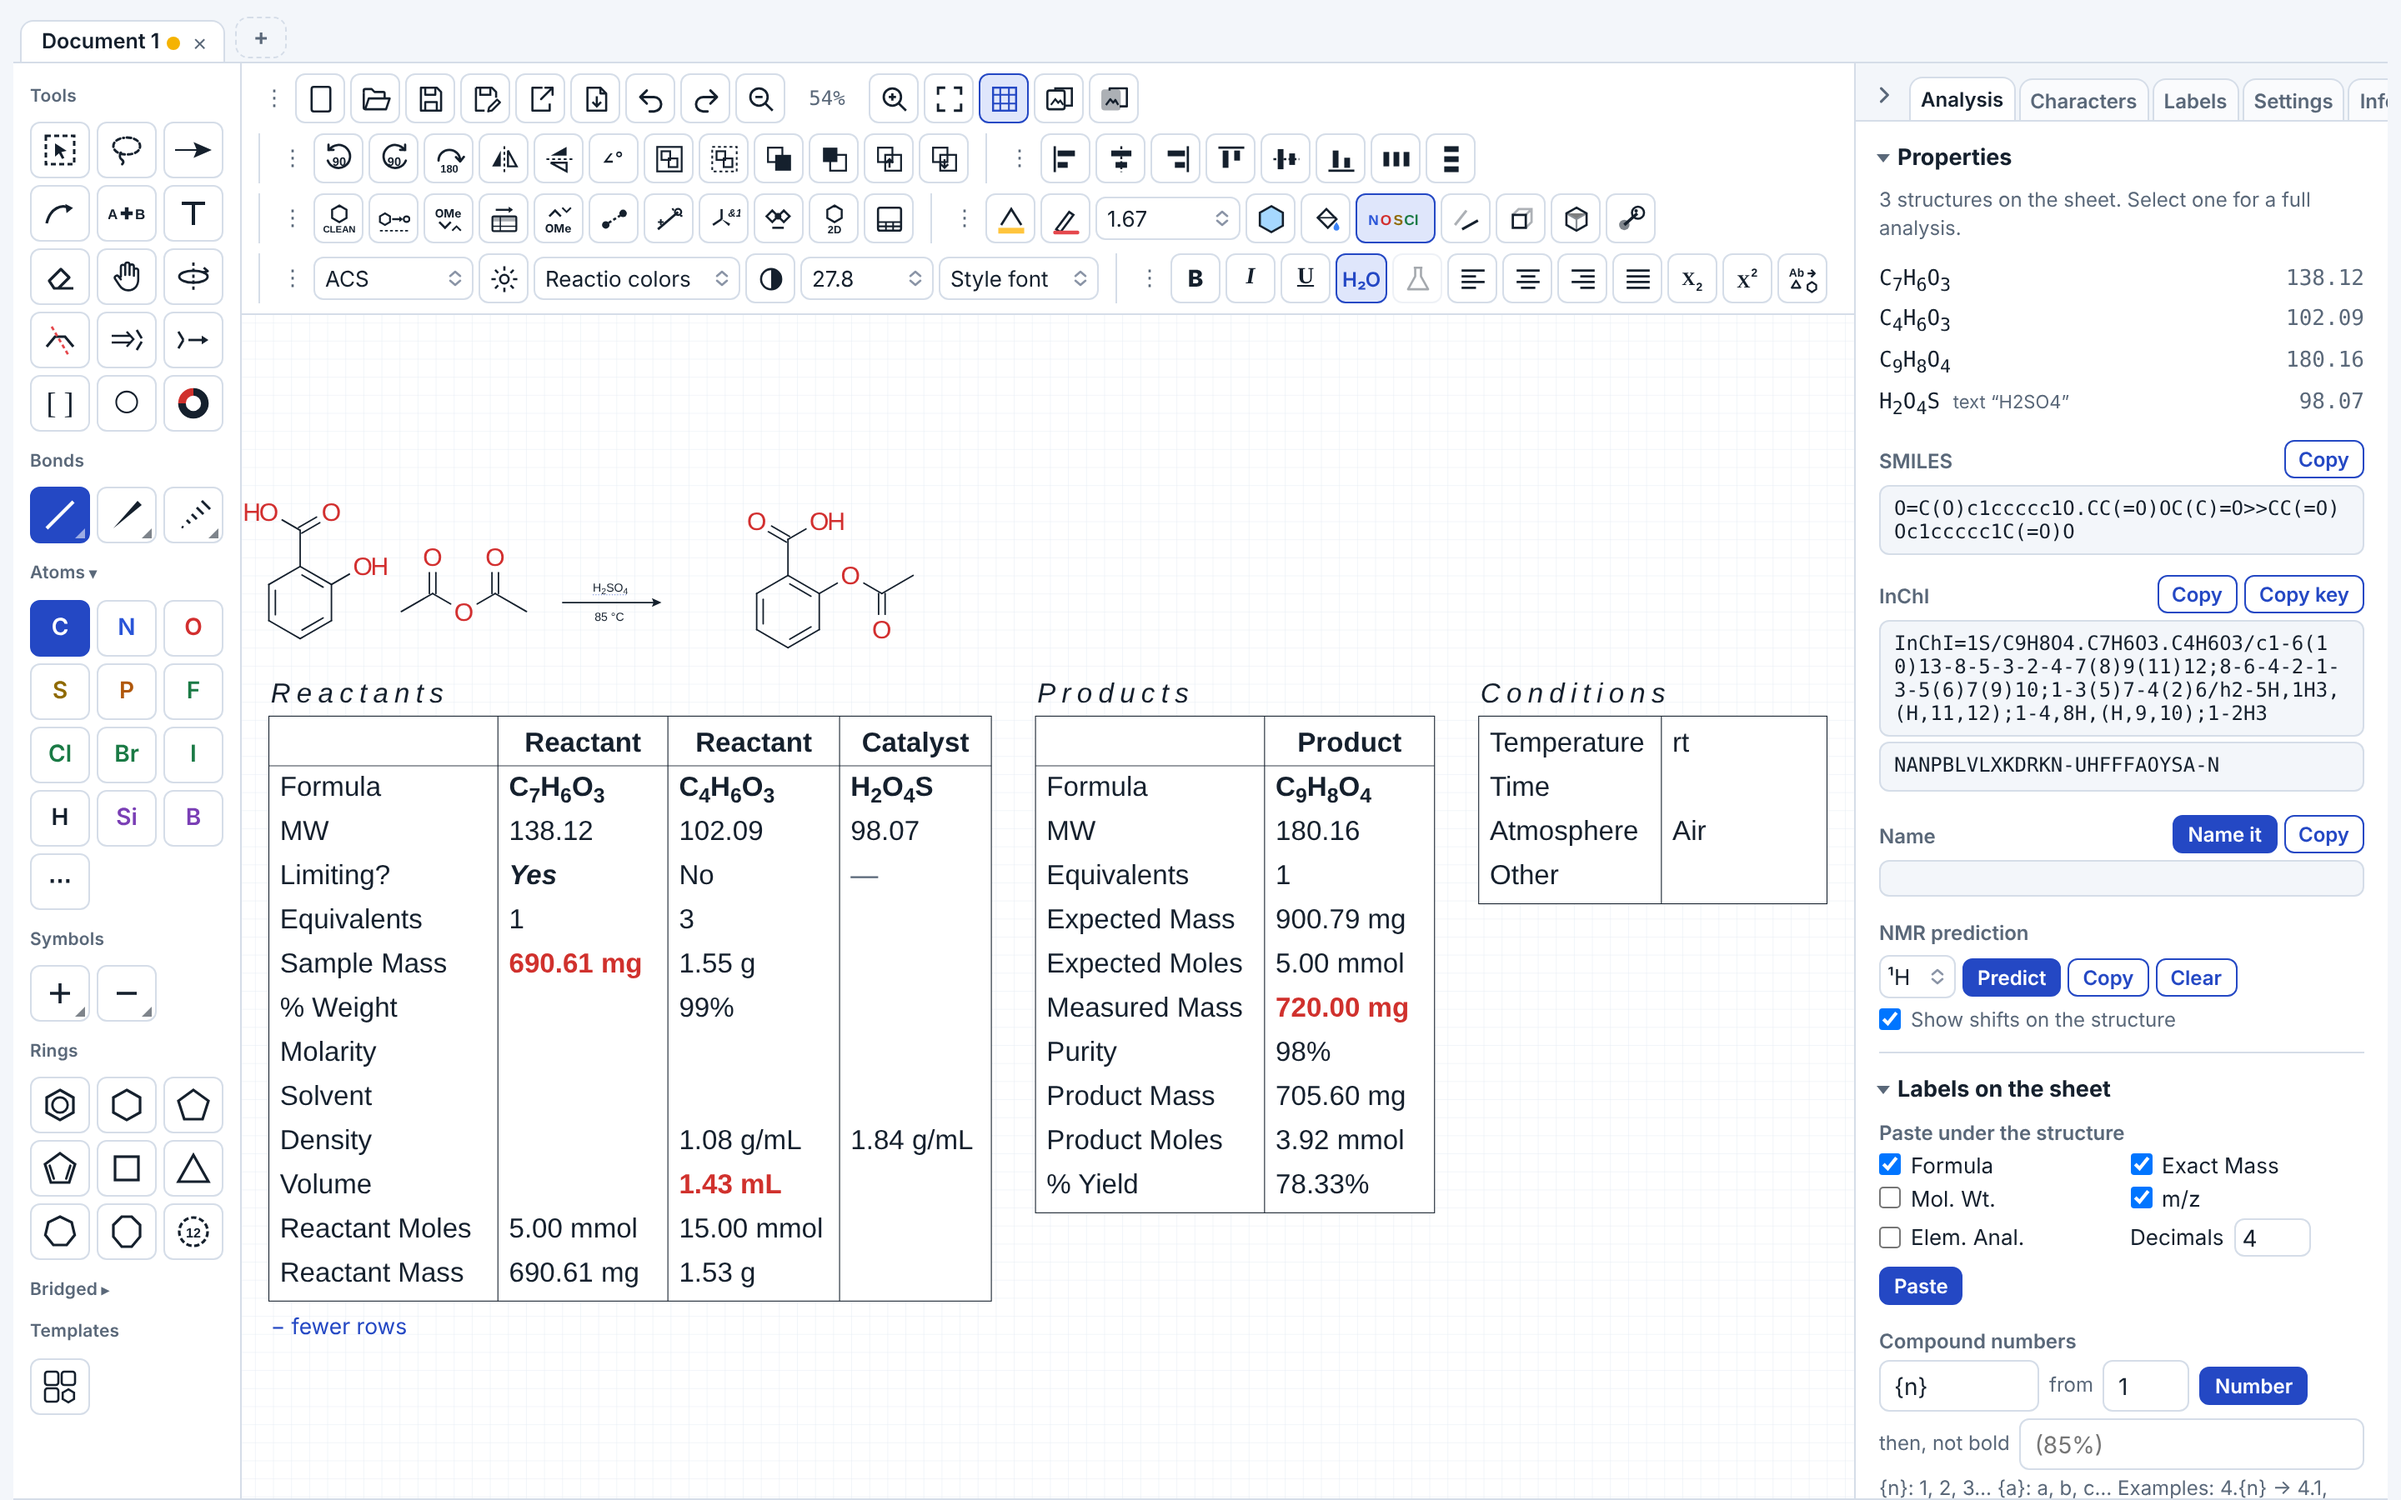
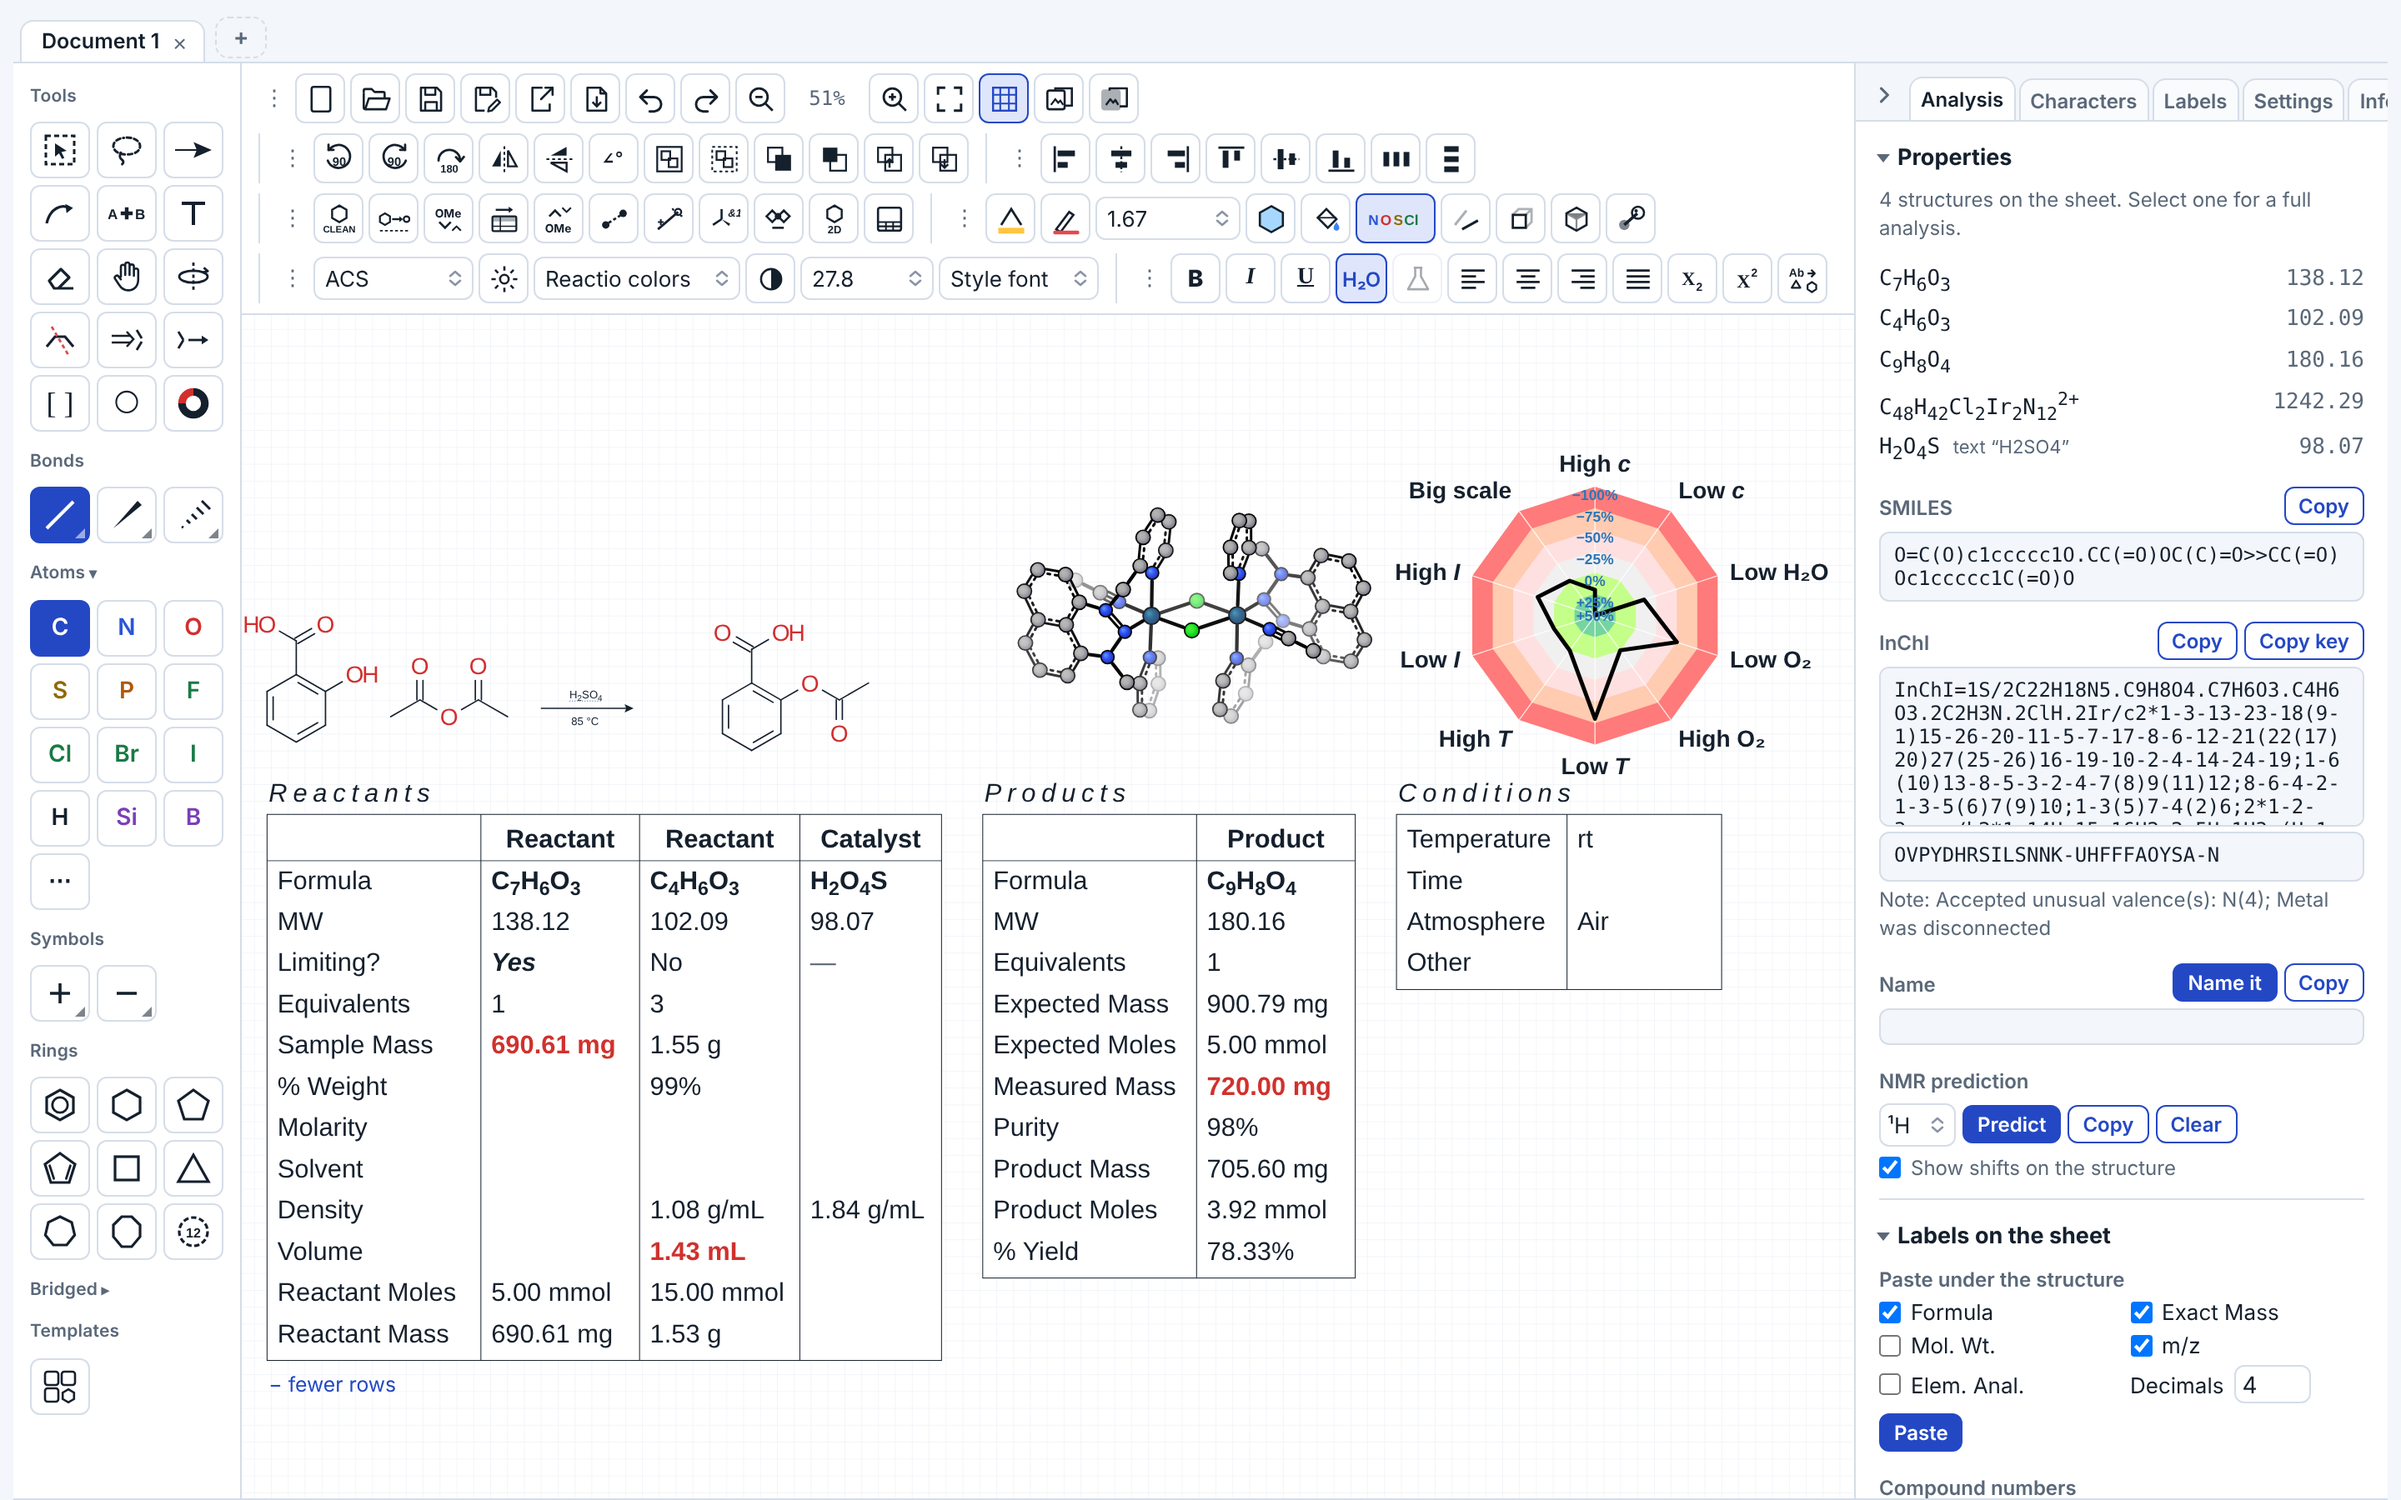
README picture: a crystal structure in 3D and a sensitivity radar chart beside the reaction

diff --git a/README.md b/README.md
@@ -8,7 +8,7 @@ and PowerPoint or to and from other chemistry editors as CDXML and CDX files. It
 | :---: | :---: | :---: |
 | nothing to install | work fully offline | every function and button explained |
 
-![Reactio Draw: a reaction with its reagent table](docs/overview.png)
+![Reactio Draw: a reaction with its reagent table, a crystal structure in 3D and a sensitivity radar chart](docs/overview.png)
 
 https://github.com/user-attachments/assets/1637fe6d-b6d1-4ec5-9d68-9a41d62ef0c8
 
